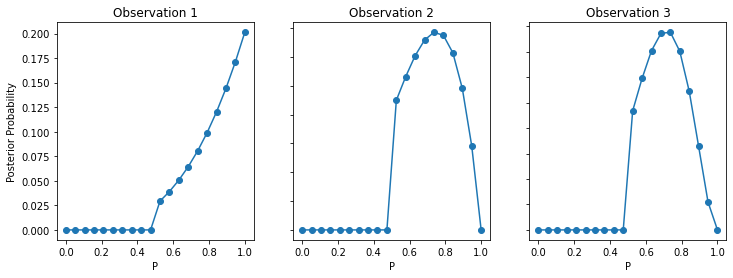
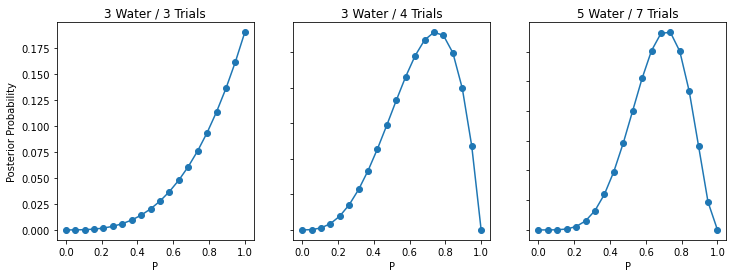
Built site for gh-pages

diff --git a/exercises/chapter_02.html b/exercises/chapter_02.html
@@ -122,6 +122,7 @@ code span.wa { color: #60a0b0; font-weight: bold; font-style: italic; } /* Warni
   }
 }</script>
 
+  <script src="https://cdn.jsdelivr.net/npm/mathjax@3/es5/tex-chtml-full.js" type="text/javascript"></script>
 
 <link rel="stylesheet" href="styles.">
 </head>
@@ -206,7 +207,31 @@ code span.wa { color: #60a0b0; font-weight: bold; font-style: italic; } /* Warni
   <ul>
   <li><a href="#chapter-2" id="toc-chapter-2" class="nav-link active" data-scroll-target="#chapter-2">Chapter 2</a>
   <ul class="collapse">
-  <li><a href="#m2" id="toc-m2" class="nav-link" data-scroll-target="#m2">2M2</a></li>
+  <li><a href="#easy" id="toc-easy" class="nav-link" data-scroll-target="#easy">Easy</a>
+  <ul class="collapse">
+  <li><a href="#e1" id="toc-e1" class="nav-link" data-scroll-target="#e1"><strong>2E1</strong></a></li>
+  <li><a href="#e2" id="toc-e2" class="nav-link" data-scroll-target="#e2">2E2</a></li>
+  <li><a href="#e3" id="toc-e3" class="nav-link" data-scroll-target="#e3">2E3</a></li>
+  <li><a href="#e4" id="toc-e4" class="nav-link" data-scroll-target="#e4">2E4</a></li>
+  </ul></li>
+  <li><a href="#medium" id="toc-medium" class="nav-link" data-scroll-target="#medium">Medium</a>
+  <ul class="collapse">
+  <li><a href="#m1" id="toc-m1" class="nav-link" data-scroll-target="#m1">2M1</a></li>
+  </ul></li>
+  <li><a href="#m2" id="toc-m2" class="nav-link" data-scroll-target="#m2">2M2</a>
+  <ul class="collapse">
+  <li><a href="#m3" id="toc-m3" class="nav-link" data-scroll-target="#m3">2M3</a></li>
+  <li><a href="#m4" id="toc-m4" class="nav-link" data-scroll-target="#m4">2M4</a></li>
+  <li><a href="#m5" id="toc-m5" class="nav-link" data-scroll-target="#m5">2M5</a></li>
+  <li><a href="#m6" id="toc-m6" class="nav-link" data-scroll-target="#m6">2M6</a></li>
+  </ul></li>
+  <li><a href="#hard" id="toc-hard" class="nav-link" data-scroll-target="#hard">Hard</a>
+  <ul class="collapse">
+  <li><a href="#h1" id="toc-h1" class="nav-link" data-scroll-target="#h1">2H1</a></li>
+  <li><a href="#h2" id="toc-h2" class="nav-link" data-scroll-target="#h2">2H2</a></li>
+  <li><a href="#h3" id="toc-h3" class="nav-link" data-scroll-target="#h3">2H3</a></li>
+  <li><a href="#h4" id="toc-h4" class="nav-link" data-scroll-target="#h4">2H4</a></li>
+  </ul></li>
   </ul></li>
   </ul>
 </nav>
@@ -218,7 +243,7 @@ code span.wa { color: #60a0b0; font-weight: bold; font-style: italic; } /* Warni
 
 <section id="chapter-2" class="level1">
 <h1>Chapter 2</h1>
-<div class="cell" data-execution_count="2">
+<div class="cell" data-execution_count="4">
 <div class="sourceCode cell-code" id="cb1"><pre class="sourceCode python code-with-copy"><code class="sourceCode python"><span id="cb1-1"><a href="#cb1-1" aria-hidden="true" tabindex="-1"></a><span class="im">import</span> arviz <span class="im">as</span> az</span>
 <span id="cb1-2"><a href="#cb1-2" aria-hidden="true" tabindex="-1"></a><span class="im">import</span> numpy <span class="im">as</span> np</span>
 <span id="cb1-3"><a href="#cb1-3" aria-hidden="true" tabindex="-1"></a><span class="im">import</span> pymc <span class="im">as</span> pm</span>
@@ -226,77 +251,189 @@ code span.wa { color: #60a0b0; font-weight: bold; font-style: italic; } /* Warni
 <span id="cb1-5"><a href="#cb1-5" aria-hidden="true" tabindex="-1"></a><span class="im">from</span> matplotlib <span class="im">import</span> pylab <span class="im">as</span> plt</span>
 <span id="cb1-6"><a href="#cb1-6" aria-hidden="true" tabindex="-1"></a><span class="im">from</span> scipy <span class="im">import</span> stats</span></code><button title="Copy to Clipboard" class="code-copy-button"><i class="bi"></i></button></pre></div>
 </div>
-<div class="cell" data-execution_count="3">
+<div class="cell" data-execution_count="5">
 <div class="sourceCode cell-code" id="cb2"><pre class="sourceCode python code-with-copy"><code class="sourceCode python"><span id="cb2-1"><a href="#cb2-1" aria-hidden="true" tabindex="-1"></a>RANDOM_SEED <span class="op">=</span> <span class="dv">42</span></span>
 <span id="cb2-2"><a href="#cb2-2" aria-hidden="true" tabindex="-1"></a>np.random.seed(RANDOM_SEED)</span></code><button title="Copy to Clipboard" class="code-copy-button"><i class="bi"></i></button></pre></div>
 </div>
-<div class="cell" data-execution_count="4">
-<div class="sourceCode cell-code" id="cb3"><pre class="sourceCode python code-with-copy"><code class="sourceCode python"><span id="cb3-1"><a href="#cb3-1" aria-hidden="true" tabindex="-1"></a><span class="co"># express the above scenarios as the number of waters in each</span></span>
-<span id="cb3-2"><a href="#cb3-2" aria-hidden="true" tabindex="-1"></a>W <span class="op">=</span> np.array([<span class="dv">3</span>, <span class="dv">3</span>, <span class="dv">5</span>])</span>
-<span id="cb3-3"><a href="#cb3-3" aria-hidden="true" tabindex="-1"></a><span class="co"># give the total number of trials</span></span>
-<span id="cb3-4"><a href="#cb3-4" aria-hidden="true" tabindex="-1"></a>Total <span class="op">=</span> np.array([<span class="dv">3</span>, <span class="dv">4</span>, <span class="dv">7</span>])</span></code><button title="Copy to Clipboard" class="code-copy-button"><i class="bi"></i></button></pre></div>
+<section id="easy" class="level2">
+<h2 class="anchored" data-anchor-id="easy">Easy</h2>
+<section id="e1" class="level3">
+<h3 class="anchored" data-anchor-id="e1"><strong>2E1</strong></h3>
+<p>Which of the expressions below correspond to the statement: <em>the probability of rain on Monday?</em></p>
+<ol type="1">
+<li>Pr(rain)</li>
+<li>Pr(rain|Monday)</li>
+<li>Pr(Monday|rain)</li>
+<li>Pr(rain, Monday) / Pr(Monday)</li>
+</ol>
+<p><strong>Answer</strong>: * Option 2, Pr(rain|Monday): reads as “the probability of rain, given that the day is Monday”. * Option 4, this is Bayes theorem in action! If you solve it then you will get Pr(rain|Monday) as well.</p>
+</section>
+<section id="e2" class="level3">
+<h3 class="anchored" data-anchor-id="e2">2E2</h3>
+<p>Which of the follwoing statements correspond to the expression:<span class="math inline">\(Pr(Monday|rain)\)</span>?</p>
+<ol type="1">
+<li>The probability of rain on Monday</li>
+<li>The probability of rain, given that it is Monday</li>
+<li>The probability that it is Monday, given that it is raining</li>
+<li>The probability that it is Monday and that it is raining</li>
+</ol>
+<p><strong>Answer</strong>: - Option 3, The probability that it is Monday, given that it is raining - Option 1 and 2: Pr(rain|Monday) - Option 4: Pr(rain, Monday)</p>
+</section>
+<section id="e3" class="level3">
+<h3 class="anchored" data-anchor-id="e3">2E3</h3>
+<p>Which of the expressions below correspond to the statement: the probability that it is Monday, given that it is raining?</p>
+<ol type="1">
+<li>Pr(Monday|rain)</li>
+<li>Pr(rain|Monday)</li>
+<li>Pr(rain|Monday) Pr(Monday)</li>
+<li>Pr(rain|Monday) Pr(Monday)/ Pr(rain)</li>
+<li>Pr(Monday|rain) Pr(rain)/ Pr(Monday)</li>
+</ol>
+<p><strong>Answer</strong>:</p>
+<div class="cell">
+<div class="sourceCode cell-code" id="cb3"><pre class="sourceCode python code-with-copy"><code class="sourceCode python"><span id="cb3-1"><a href="#cb3-1" aria-hidden="true" tabindex="-1"></a><span class="co">#TODO</span></span></code><button title="Copy to Clipboard" class="code-copy-button"><i class="bi"></i></button></pre></div>
 </div>
-<div class="cell" data-outputid="11af6214-c44e-4d49-9a30-2fd86d2e01cc" data-execution_count="6">
-<div class="sourceCode cell-code" id="cb4"><pre class="sourceCode python code-with-copy"><code class="sourceCode python"><span id="cb4-1"><a href="#cb4-1" aria-hidden="true" tabindex="-1"></a>fig, axs <span class="op">=</span> plt.subplots(<span class="dv">1</span>, <span class="dv">3</span>, figsize<span class="op">=</span>(<span class="dv">12</span>,<span class="dv">4</span>))</span>
-<span id="cb4-2"><a href="#cb4-2" aria-hidden="true" tabindex="-1"></a></span>
-<span id="cb4-3"><a href="#cb4-3" aria-hidden="true" tabindex="-1"></a><span class="cf">for</span> i, j, ax, ix <span class="kw">in</span> <span class="bu">zip</span>(W, Total, np.ravel(axs), <span class="bu">range</span>(<span class="dv">3</span>)):</span>
-<span id="cb4-4"><a href="#cb4-4" aria-hidden="true" tabindex="-1"></a>    p <span class="op">=</span> np.linspace(<span class="dv">0</span>, <span class="dv">1</span>, <span class="dv">20</span>)</span>
-<span id="cb4-5"><a href="#cb4-5" aria-hidden="true" tabindex="-1"></a>    <span class="co"># compute the likelihood for each value of p, assuming 6 success and 3 fails</span></span>
-<span id="cb4-6"><a href="#cb4-6" aria-hidden="true" tabindex="-1"></a>    likelihood <span class="op">=</span> stats.binom.pmf(k<span class="op">=</span>i, n<span class="op">=</span>j, p<span class="op">=</span>p)</span>
-<span id="cb4-7"><a href="#cb4-7" aria-hidden="true" tabindex="-1"></a>    <span class="co"># prior is step function</span></span>
-<span id="cb4-8"><a href="#cb4-8" aria-hidden="true" tabindex="-1"></a>    prior <span class="op">=</span> <span class="dv">1</span></span>
-<span id="cb4-9"><a href="#cb4-9" aria-hidden="true" tabindex="-1"></a>    <span class="co"># posterior</span></span>
-<span id="cb4-10"><a href="#cb4-10" aria-hidden="true" tabindex="-1"></a>    post <span class="op">=</span> likelihood <span class="op">*</span> prior</span>
-<span id="cb4-11"><a href="#cb4-11" aria-hidden="true" tabindex="-1"></a>    <span class="co"># normalise the posterior</span></span>
-<span id="cb4-12"><a href="#cb4-12" aria-hidden="true" tabindex="-1"></a>    post <span class="op">=</span> post <span class="op">/</span> np.<span class="bu">sum</span>(post)</span>
-<span id="cb4-13"><a href="#cb4-13" aria-hidden="true" tabindex="-1"></a>    ax.plot(p, post)</span>
-<span id="cb4-14"><a href="#cb4-14" aria-hidden="true" tabindex="-1"></a>    ax.scatter(p, post)</span>
-<span id="cb4-15"><a href="#cb4-15" aria-hidden="true" tabindex="-1"></a>    ax.set_title(<span class="st">"Observation "</span> <span class="op">+</span> <span class="bu">str</span>(ix <span class="op">+</span> <span class="dv">1</span>))</span>
-<span id="cb4-16"><a href="#cb4-16" aria-hidden="true" tabindex="-1"></a>    ax.<span class="bu">set</span>(xlabel<span class="op">=</span><span class="st">"P"</span>, ylabel<span class="op">=</span><span class="st">"Posterior Probability"</span>)</span>
-<span id="cb4-17"><a href="#cb4-17" aria-hidden="true" tabindex="-1"></a></span>
-<span id="cb4-18"><a href="#cb4-18" aria-hidden="true" tabindex="-1"></a><span class="cf">for</span> ax <span class="kw">in</span> axs.flat:</span>
-<span id="cb4-19"><a href="#cb4-19" aria-hidden="true" tabindex="-1"></a>    ax.label_outer()</span></code><button title="Copy to Clipboard" class="code-copy-button"><i class="bi"></i></button></pre></div>
-<div class="cell-output cell-output-display">
-<p><img src="chapter_02_files/figure-html/cell-5-output-1.png" class="img-fluid"></p>
+</section>
+<section id="e4" class="level3">
+<h3 class="anchored" data-anchor-id="e4">2E4</h3>
+<p>The Bayesian statistician Bruno de Finetti (1906–1985) began his 1973 book on probability theory with the declaration: “PROBABILITY DOES NOT EXIST.” The capitals appeared in the original, so I imagine de Finetti wanted us to shout this statement. What he meant is that probability is a device for describing uncertainty from the perspective of an observer with limited knowledge; it has no objective reality. Discuss the globe tossing example from the chapter, in light of this statement. What does it mean to say “the probability of water is 0.7”?</p>
+<div class="cell">
+<div class="sourceCode cell-code" id="cb4"><pre class="sourceCode python code-with-copy"><code class="sourceCode python"><span id="cb4-1"><a href="#cb4-1" aria-hidden="true" tabindex="-1"></a><span class="co">#TODO</span></span></code><button title="Copy to Clipboard" class="code-copy-button"><i class="bi"></i></button></pre></div>
 </div>
+</section>
+</section>
+<section id="medium" class="level2">
+<h2 class="anchored" data-anchor-id="medium">Medium</h2>
+<section id="m1" class="level3">
+<h3 class="anchored" data-anchor-id="m1">2M1</h3>
+<p>Recall the globe tossing model from the chapter. Compute and plot the grid approximate posterior distribution for each of the following sets of observations. In each case, assume a uniform prior for p.</p>
+<ol type="1">
+<li>W, W, W</li>
+<li>W, W, W, L</li>
+<li>L, W, W, L, W, W, W</li>
+</ol>
+<p><strong>Answer</strong>:</p>
+<div class="cell" data-execution_count="6">
+<div class="sourceCode cell-code" id="cb5"><pre class="sourceCode python code-with-copy"><code class="sourceCode python"><span id="cb5-1"><a href="#cb5-1" aria-hidden="true" tabindex="-1"></a><span class="co"># count the number of waters in each toss</span></span>
+<span id="cb5-2"><a href="#cb5-2" aria-hidden="true" tabindex="-1"></a>water <span class="op">=</span> np.array([<span class="dv">3</span>, <span class="dv">3</span>, <span class="dv">5</span>])</span>
+<span id="cb5-3"><a href="#cb5-3" aria-hidden="true" tabindex="-1"></a></span>
+<span id="cb5-4"><a href="#cb5-4" aria-hidden="true" tabindex="-1"></a><span class="co"># total number of trials</span></span>
+<span id="cb5-5"><a href="#cb5-5" aria-hidden="true" tabindex="-1"></a>trials <span class="op">=</span> np.array([<span class="dv">3</span>, <span class="dv">4</span>, <span class="dv">7</span>])</span></code><button title="Copy to Clipboard" class="code-copy-button"><i class="bi"></i></button></pre></div>
 </div>
-<section id="m2" class="level2">
-<h2 class="anchored" data-anchor-id="m2">2M2</h2>
-<div class="cell" data-outputid="d6528ef4-0102-4fc6-a311-45708affac70">
-<div class="sourceCode cell-code" id="cb5"><pre class="sourceCode python code-with-copy"><code class="sourceCode python"><span id="cb5-1"><a href="#cb5-1" aria-hidden="true" tabindex="-1"></a>https:<span class="op">//</span>matplotlib.org<span class="op">/</span>stable<span class="op">/</span>gallery<span class="op">/</span>subplots_axes_and_figures<span class="op">/</span>subplots_demo.html</span></code><button title="Copy to Clipboard" class="code-copy-button"><i class="bi"></i></button></pre></div>
-<div class="cell-output cell-output-display" data-execution_count="12">
-<pre><code>array([3, 4, 7])</code></pre>
-</div>
-</div>
-<div class="cell" data-outputid="a6b13ec3-700c-4ba0-c367-278949fa3873" data-execution_count="7">
-<div class="sourceCode cell-code" id="cb7"><pre class="sourceCode python code-with-copy"><code class="sourceCode python"><span id="cb7-1"><a href="#cb7-1" aria-hidden="true" tabindex="-1"></a>fig, axs <span class="op">=</span> plt.subplots(<span class="dv">1</span>, <span class="dv">3</span>, figsize<span class="op">=</span>(<span class="dv">12</span>,<span class="dv">4</span>))</span>
-<span id="cb7-2"><a href="#cb7-2" aria-hidden="true" tabindex="-1"></a></span>
-<span id="cb7-3"><a href="#cb7-3" aria-hidden="true" tabindex="-1"></a><span class="cf">for</span> i, j, ax, ix <span class="kw">in</span> <span class="bu">zip</span>(W, Total, np.ravel(axs), <span class="bu">range</span>(<span class="dv">3</span>)):</span>
-<span id="cb7-4"><a href="#cb7-4" aria-hidden="true" tabindex="-1"></a>    p <span class="op">=</span> np.linspace(<span class="dv">0</span>, <span class="dv">1</span>, <span class="dv">20</span>)</span>
-<span id="cb7-5"><a href="#cb7-5" aria-hidden="true" tabindex="-1"></a>    <span class="co"># compute the likelihood for each value of p, assuming 6 success and 3 fails</span></span>
-<span id="cb7-6"><a href="#cb7-6" aria-hidden="true" tabindex="-1"></a>    likelihood <span class="op">=</span> stats.binom.pmf(k<span class="op">=</span>i, n<span class="op">=</span>j, p<span class="op">=</span>p)</span>
-<span id="cb7-7"><a href="#cb7-7" aria-hidden="true" tabindex="-1"></a>    <span class="co"># prior is step function</span></span>
-<span id="cb7-8"><a href="#cb7-8" aria-hidden="true" tabindex="-1"></a>    prior <span class="op">=</span> np.heaviside(p <span class="op">-</span> <span class="fl">0.5</span>, <span class="fl">0.5</span>) <span class="op">*</span> <span class="dv">2</span></span>
-<span id="cb7-9"><a href="#cb7-9" aria-hidden="true" tabindex="-1"></a>    <span class="co"># posterior</span></span>
-<span id="cb7-10"><a href="#cb7-10" aria-hidden="true" tabindex="-1"></a>    post <span class="op">=</span> likelihood <span class="op">*</span> prior</span>
-<span id="cb7-11"><a href="#cb7-11" aria-hidden="true" tabindex="-1"></a>    <span class="co"># normalise the posterior</span></span>
-<span id="cb7-12"><a href="#cb7-12" aria-hidden="true" tabindex="-1"></a>    post <span class="op">=</span> post <span class="op">/</span> np.<span class="bu">sum</span>(post)</span>
-<span id="cb7-13"><a href="#cb7-13" aria-hidden="true" tabindex="-1"></a>    ax.plot(p, post)</span>
-<span id="cb7-14"><a href="#cb7-14" aria-hidden="true" tabindex="-1"></a>    ax.scatter(p, post)</span>
-<span id="cb7-15"><a href="#cb7-15" aria-hidden="true" tabindex="-1"></a>    ax.set_title(<span class="st">"Observation "</span> <span class="op">+</span> <span class="bu">str</span>(ix <span class="op">+</span> <span class="dv">1</span>))</span>
-<span id="cb7-16"><a href="#cb7-16" aria-hidden="true" tabindex="-1"></a>    ax.<span class="bu">set</span>(xlabel<span class="op">=</span><span class="st">"P"</span>, ylabel<span class="op">=</span><span class="st">"Posterior Probability"</span>)</span>
-<span id="cb7-17"><a href="#cb7-17" aria-hidden="true" tabindex="-1"></a></span>
-<span id="cb7-18"><a href="#cb7-18" aria-hidden="true" tabindex="-1"></a><span class="cf">for</span> ax <span class="kw">in</span> axs.flat:</span>
-<span id="cb7-19"><a href="#cb7-19" aria-hidden="true" tabindex="-1"></a>    ax.label_outer()</span></code><button title="Copy to Clipboard" class="code-copy-button"><i class="bi"></i></button></pre></div>
+<div class="cell" data-outputid="98b081be-2501-4e8e-97aa-6100658e5955" data-execution_count="9">
+<div class="sourceCode cell-code" id="cb6"><pre class="sourceCode python code-with-copy"><code class="sourceCode python"><span id="cb6-1"><a href="#cb6-1" aria-hidden="true" tabindex="-1"></a>fig, axs <span class="op">=</span> plt.subplots(<span class="dv">1</span>, <span class="dv">3</span>, figsize<span class="op">=</span>(<span class="dv">12</span>,<span class="dv">4</span>))</span>
+<span id="cb6-2"><a href="#cb6-2" aria-hidden="true" tabindex="-1"></a></span>
+<span id="cb6-3"><a href="#cb6-3" aria-hidden="true" tabindex="-1"></a><span class="cf">for</span> w, t, ax, ix <span class="kw">in</span> <span class="bu">zip</span>(water, trials, np.ravel(axs), <span class="bu">range</span>(<span class="dv">3</span>)):</span>
+<span id="cb6-4"><a href="#cb6-4" aria-hidden="true" tabindex="-1"></a>    <span class="co"># parameter grid</span></span>
+<span id="cb6-5"><a href="#cb6-5" aria-hidden="true" tabindex="-1"></a>    p_grid <span class="op">=</span> np.linspace(<span class="dv">0</span>, <span class="dv">1</span>, <span class="dv">20</span>)</span>
+<span id="cb6-6"><a href="#cb6-6" aria-hidden="true" tabindex="-1"></a></span>
+<span id="cb6-7"><a href="#cb6-7" aria-hidden="true" tabindex="-1"></a>    <span class="co"># compute the likelihood for each value of p, assuming 6 success and 3 fails</span></span>
+<span id="cb6-8"><a href="#cb6-8" aria-hidden="true" tabindex="-1"></a>    likelihood <span class="op">=</span> stats.binom.pmf(k<span class="op">=</span>w, n<span class="op">=</span>t, p<span class="op">=</span>p_grid)</span>
+<span id="cb6-9"><a href="#cb6-9" aria-hidden="true" tabindex="-1"></a>    </span>
+<span id="cb6-10"><a href="#cb6-10" aria-hidden="true" tabindex="-1"></a>    <span class="co"># uniform prior</span></span>
+<span id="cb6-11"><a href="#cb6-11" aria-hidden="true" tabindex="-1"></a>    prior <span class="op">=</span> <span class="dv">1</span></span>
+<span id="cb6-12"><a href="#cb6-12" aria-hidden="true" tabindex="-1"></a>    </span>
+<span id="cb6-13"><a href="#cb6-13" aria-hidden="true" tabindex="-1"></a>    <span class="co"># posterior</span></span>
+<span id="cb6-14"><a href="#cb6-14" aria-hidden="true" tabindex="-1"></a>    post <span class="op">=</span> likelihood <span class="op">*</span> prior</span>
+<span id="cb6-15"><a href="#cb6-15" aria-hidden="true" tabindex="-1"></a>    </span>
+<span id="cb6-16"><a href="#cb6-16" aria-hidden="true" tabindex="-1"></a>    <span class="co"># normalise the posterior</span></span>
+<span id="cb6-17"><a href="#cb6-17" aria-hidden="true" tabindex="-1"></a>    post <span class="op">=</span> post <span class="op">/</span> np.<span class="bu">sum</span>(post)</span>
+<span id="cb6-18"><a href="#cb6-18" aria-hidden="true" tabindex="-1"></a>    </span>
+<span id="cb6-19"><a href="#cb6-19" aria-hidden="true" tabindex="-1"></a>    <span class="co"># plot</span></span>
+<span id="cb6-20"><a href="#cb6-20" aria-hidden="true" tabindex="-1"></a>    ax.plot(p_grid, post)</span>
+<span id="cb6-21"><a href="#cb6-21" aria-hidden="true" tabindex="-1"></a>    ax.scatter(p_grid, post)</span>
+<span id="cb6-22"><a href="#cb6-22" aria-hidden="true" tabindex="-1"></a>    ax.set_title(<span class="ss">f"</span><span class="sc">{</span>w<span class="sc">}</span><span class="ss"> Water / </span><span class="sc">{</span>t<span class="sc">}</span><span class="ss"> Trials"</span>)</span>
+<span id="cb6-23"><a href="#cb6-23" aria-hidden="true" tabindex="-1"></a>    ax.<span class="bu">set</span>(xlabel<span class="op">=</span><span class="st">"P"</span>, ylabel<span class="op">=</span><span class="st">"Posterior Probability"</span>)</span>
+<span id="cb6-24"><a href="#cb6-24" aria-hidden="true" tabindex="-1"></a></span>
+<span id="cb6-25"><a href="#cb6-25" aria-hidden="true" tabindex="-1"></a><span class="cf">for</span> ax <span class="kw">in</span> axs.flat:</span>
+<span id="cb6-26"><a href="#cb6-26" aria-hidden="true" tabindex="-1"></a>    ax.label_outer()</span></code><button title="Copy to Clipboard" class="code-copy-button"><i class="bi"></i></button></pre></div>
 <div class="cell-output cell-output-display">
 <p><img src="chapter_02_files/figure-html/cell-7-output-1.png" class="img-fluid"></p>
 </div>
 </div>
-<div class="cell">
-<div class="sourceCode cell-code" id="cb8"><pre class="sourceCode python code-with-copy"><code class="sourceCode python"><span id="cb8-1"><a href="#cb8-1" aria-hidden="true" tabindex="-1"></a><span class="op">!</span></span></code><button title="Copy to Clipboard" class="code-copy-button"><i class="bi"></i></button></pre></div>
+</section>
+</section>
+<section id="m2" class="level2">
+<h2 class="anchored" data-anchor-id="m2">2M2</h2>
+<div class="cell" data-outputid="a23fd4c4-a85f-4922-bba1-fc8fb4de8586" data-execution_count="21">
+<div class="sourceCode cell-code" id="cb7"><pre class="sourceCode python code-with-copy"><code class="sourceCode python"><span id="cb7-1"><a href="#cb7-1" aria-hidden="true" tabindex="-1"></a>fig, axs <span class="op">=</span> plt.subplots(<span class="dv">1</span>, <span class="dv">3</span>, figsize<span class="op">=</span>(<span class="dv">12</span>,<span class="dv">4</span>))</span>
+<span id="cb7-2"><a href="#cb7-2" aria-hidden="true" tabindex="-1"></a></span>
+<span id="cb7-3"><a href="#cb7-3" aria-hidden="true" tabindex="-1"></a><span class="cf">for</span> w, t, ax, ix <span class="kw">in</span> <span class="bu">zip</span>(water, trials, np.ravel(axs), <span class="bu">range</span>(<span class="dv">3</span>)):</span>
+<span id="cb7-4"><a href="#cb7-4" aria-hidden="true" tabindex="-1"></a>    p_grid <span class="op">=</span> np.linspace(<span class="dv">0</span>, <span class="dv">1</span>, <span class="dv">20</span>)</span>
+<span id="cb7-5"><a href="#cb7-5" aria-hidden="true" tabindex="-1"></a></span>
+<span id="cb7-6"><a href="#cb7-6" aria-hidden="true" tabindex="-1"></a>    <span class="co"># compute the likelihood for each value of p, assuming 6 success and 3 fails</span></span>
+<span id="cb7-7"><a href="#cb7-7" aria-hidden="true" tabindex="-1"></a>    likelihood <span class="op">=</span> stats.binom.pmf(k<span class="op">=</span>w, n<span class="op">=</span>t, p<span class="op">=</span>p_grid)</span>
+<span id="cb7-8"><a href="#cb7-8" aria-hidden="true" tabindex="-1"></a></span>
+<span id="cb7-9"><a href="#cb7-9" aria-hidden="true" tabindex="-1"></a>    <span class="co"># step function prior</span></span>
+<span id="cb7-10"><a href="#cb7-10" aria-hidden="true" tabindex="-1"></a>    prior <span class="op">=</span> (p_grid <span class="op">&gt;=</span> <span class="fl">0.5</span>).astype(<span class="bu">int</span>)</span>
+<span id="cb7-11"><a href="#cb7-11" aria-hidden="true" tabindex="-1"></a></span>
+<span id="cb7-12"><a href="#cb7-12" aria-hidden="true" tabindex="-1"></a>    <span class="co"># posterior</span></span>
+<span id="cb7-13"><a href="#cb7-13" aria-hidden="true" tabindex="-1"></a>    post <span class="op">=</span> likelihood <span class="op">*</span> prior</span>
+<span id="cb7-14"><a href="#cb7-14" aria-hidden="true" tabindex="-1"></a>    </span>
+<span id="cb7-15"><a href="#cb7-15" aria-hidden="true" tabindex="-1"></a>    <span class="co"># normalise the posterior</span></span>
+<span id="cb7-16"><a href="#cb7-16" aria-hidden="true" tabindex="-1"></a>    post <span class="op">=</span> post <span class="op">/</span> np.<span class="bu">sum</span>(post)</span>
+<span id="cb7-17"><a href="#cb7-17" aria-hidden="true" tabindex="-1"></a>    </span>
+<span id="cb7-18"><a href="#cb7-18" aria-hidden="true" tabindex="-1"></a>    <span class="co"># plot</span></span>
+<span id="cb7-19"><a href="#cb7-19" aria-hidden="true" tabindex="-1"></a>    ax.plot(p_grid, post)</span>
+<span id="cb7-20"><a href="#cb7-20" aria-hidden="true" tabindex="-1"></a>    ax.scatter(p_grid, post)</span>
+<span id="cb7-21"><a href="#cb7-21" aria-hidden="true" tabindex="-1"></a>    ax.set_title(<span class="ss">f"</span><span class="sc">{</span>w<span class="sc">}</span><span class="ss"> Water / </span><span class="sc">{</span>t<span class="sc">}</span><span class="ss"> Trials"</span>)</span>
+<span id="cb7-22"><a href="#cb7-22" aria-hidden="true" tabindex="-1"></a>    ax.<span class="bu">set</span>(xlabel<span class="op">=</span><span class="st">"P"</span>, ylabel<span class="op">=</span><span class="st">"Posterior Probability"</span>)</span>
+<span id="cb7-23"><a href="#cb7-23" aria-hidden="true" tabindex="-1"></a></span>
+<span id="cb7-24"><a href="#cb7-24" aria-hidden="true" tabindex="-1"></a><span class="cf">for</span> ax <span class="kw">in</span> axs.flat:</span>
+<span id="cb7-25"><a href="#cb7-25" aria-hidden="true" tabindex="-1"></a>    ax.label_outer()</span></code><button title="Copy to Clipboard" class="code-copy-button"><i class="bi"></i></button></pre></div>
+<div class="cell-output cell-output-display">
+<p><img src="chapter_02_files/figure-html/cell-8-output-1.png" class="img-fluid"></p>
 </div>
+</div>
+<section id="m3" class="level3">
+<h3 class="anchored" data-anchor-id="m3">2M3</h3>
+<p>Suppose there are two globes, one for Earth and one for Mars. The Earth globe is 70% covered in water. The Mars globe is 100% land. Further suppose that one of these globes—you don’t know which—was tossed in the air and produced a “land” observation. Assume that each globe was equally likely to be tossed. Show that the posterior probability that the globe was the Earth, conditional on seeing “land” (Pr(Earth|land)), is 0.23.</p>
+<p><strong>Answer</strong>:</p>
+</section>
+<section id="m4" class="level3">
+<h3 class="anchored" data-anchor-id="m4">2M4</h3>
+<p>Suppose you have a deck with only three cards. Each card has two sides, and each side is either black or white. One card has two black sides. The second card has one black and one white side. The third card has two white sides. Now suppose all three cards are placed in a bag and shuffled. Someone reaches into the bag and pulls out a card and places it flat on a table. A black side is shown facing up, but you don’t know the color of the side facing down. Show that the probability that the other side is also black is 2/3. Use the counting method (Section 2 of the chapter) to approach this problem. This means counting up the ways that each card could produce the observed data (a black side facing up on the table).</p>
+<p><strong>Answer</strong>:</p>
+</section>
+<section id="m5" class="level3">
+<h3 class="anchored" data-anchor-id="m5">2M5</h3>
+<p>Now suppose there are four cards: B/B, B/W, W/W, and another B/B. Again suppose a card is drawn from the bag and a black side appears face up. Again calculate the probability that the other side is black.</p>
+<p><strong>Answer</strong>:</p>
+</section>
+<section id="m6" class="level3">
+<h3 class="anchored" data-anchor-id="m6">2M6</h3>
+<p>Imagine that black ink is heavy, and so cards with black sides are heavier than cards with white sides. As a result, it’s less likely that a card with black sides is pulled from the bag. So again assume there are three cards: B/B, B/W, and W/W. After experimenting a number of times, you conclude that for every way to pull the B/B card from the bag, there are 2 ways to pull the B/W card and 3 ways to pull the W/W card. Again suppose that a card is pulled and a black side appears face up. Show that the probability the other side is black is now 0.5. Use the counting method, as before.</p>
+<p><strong>Answer</strong>:</p>
+<p>###2M7</p>
+<p>Assume again the original card problem, with a single card showing a black side face up. Before looking at the other side, we draw another card from the bag and lay it face up on the table. The face that is shown on the new card is white. Show that the probability that the first card, the one showing a black side, has black on its other side is now 0.75. Use the counting method, if you can. Hint: Treat this like the sequence of globe tosses, counting all the ways to see each observation, for each possible first card.</p>
+<p><strong>Answer</strong>:</p>
+</section>
+</section>
+<section id="hard" class="level2">
+<h2 class="anchored" data-anchor-id="hard">Hard</h2>
+<section id="h1" class="level3">
+<h3 class="anchored" data-anchor-id="h1">2H1</h3>
+<p>Suppose there are two species of panda bear. Both are equally common in the wild and live in the same places. They look exactly alike and eat the same food, and there is yet no genetic assay capable of telling them apart. They differ however in their family sizes. Species A gives birth to twins 10% of the time, otherwise birthing a single infant. Species B births twins 20% of the time, otherwise birthing singleton infants. Assume these numbers are known with certainty, from many years of field research.</p>
+<p>Now suppose you are managing a captive panda breeding program. You have a new female panda of unknown species, and she has just given birth to twins. What is the probability that her next birth will also be twins?</p>
+<p><strong>Answer:</strong></p>
+</section>
+<section id="h2" class="level3">
+<h3 class="anchored" data-anchor-id="h2">2H2</h3>
+<p>Recall all the facts from the problem above. Now compute the probability that the panda we have is from species A, assuming we have observed only the first birth and that it was twins.</p>
+<p><strong>Answer</strong>:</p>
+</section>
+<section id="h3" class="level3">
+<h3 class="anchored" data-anchor-id="h3">2H3</h3>
+<p>Continuing on from the previous problem, suppose the same panda mother has a second birth and that it is not twins, but a singleton infant. Compute the posterior probability that this panda is species A</p>
+<p><strong>Answer</strong>:</p>
+</section>
+<section id="h4" class="level3">
+<h3 class="anchored" data-anchor-id="h4">2H4</h3>
+<p>A common boast of Bayesian statisticians is that Bayesian inference makes it easy to use all of the data, even if the data are of different types. So suppose now that a veterinarian comes along who has a new genetic test that she claims can identify the species of our mother panda. But the test, like all tests, is imperfect. This is the information you have about the test: • The probability it correctly identifies a species A panda is 0.8. • The probability it correctly identifies a species B panda is 0.65. The vet administers the test to your panda and tells you that the test is positive for species A. First ignore your previous information from the births and compute the posterior probability that your panda is species A. Then redo your calculation, now using the birth data as well.</p>
+<p><strong>Answer</strong>:</p>
 
 
+</section>
 </section>
 </section>
 
